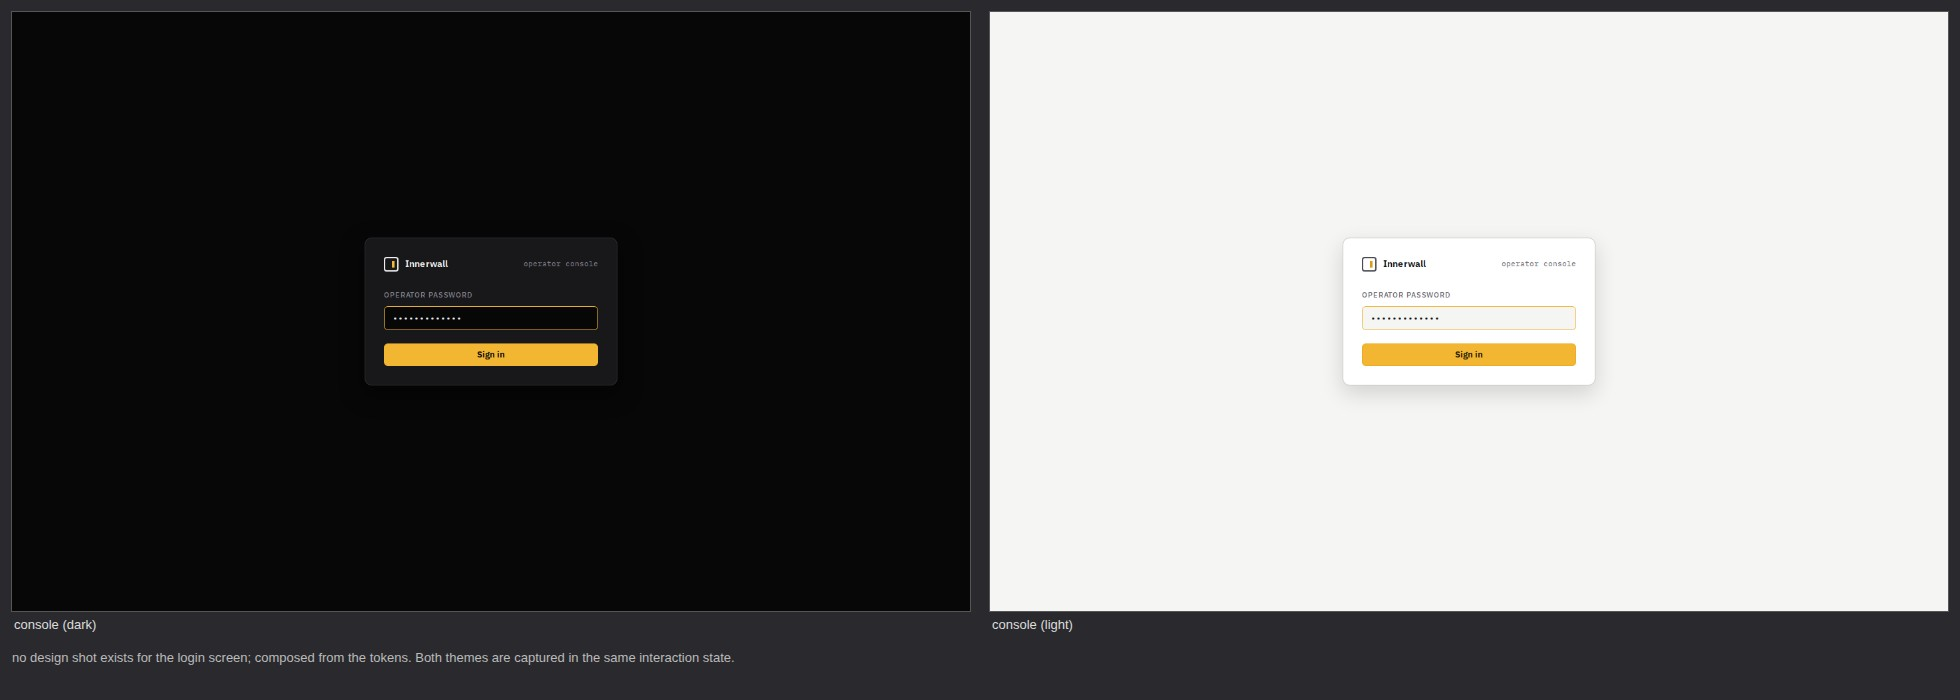
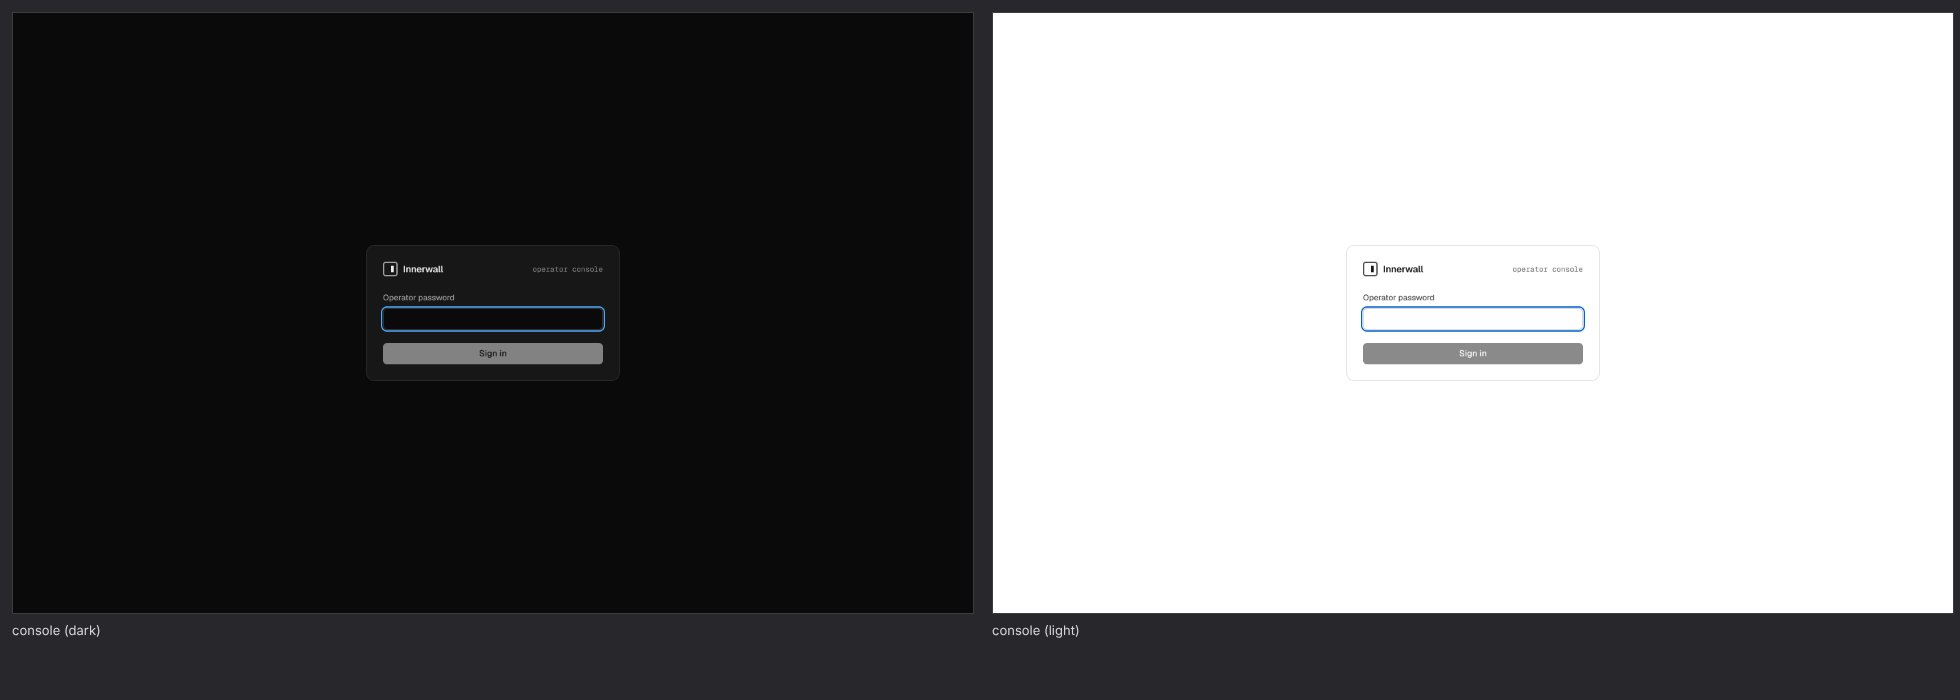
docs: recapture the console composites; record design package v2
Every committed composite is recaptured from the dev seed with
ui/scripts/capture-composites.mjs: the same 36 states, each now the
console's dark theme beside the same state in its light theme. The
beside-design-shots convention is retired with v1: the running
console is its own reference and the canvas stays outside the
repository. Designed states are one image each (<name>.jpg) instead of
-dark and -light pairs, and README's image paths and captions follow.

The script now captures every scene dark beside light, and carries
scenes for the ten committed states it never captured: the tokens
tab, the mint form, the revoke confirmation, the change-mode dialog,
the fresh-install workloads, the account popover, and the login
screen as it opens, refused, throttled (on a control plane the run
may throttle, since the brake is held in process), and on a control
plane with no operator password. docs/development.md describes the
four control planes it drives.

docs/design/PACKAGE.md records the package: its provenance and
verification record verbatim, amendment 1 (the severity glyph family,
maintainer-ruled), the errata, and where each piece lives here.

Claude-Session: https://claude.ai/code/session_01FCBVzWB4dnAVkGzWKWS9Fi

diff --git a/docs/design/PACKAGE.md b/docs/design/PACKAGE.md
@@ -1,0 +1,71 @@
+# Innerwall console design package v2
+
+Provenance and verification record. Freeze pending maintainer confirmation.
+
+## Sources (artifacts of record)
+- Design system "Innerwall Console": https://claude.ai/artifact/5ecVdc3pkWNCC8NSA5tNGh (version 1791434754-84ee at packaging)
+- Canvas "Innerwall Console Refresh" (16 artboards): https://claude.ai/artifact/1pzAJDRPmsZNzwP6cV93py (version 1791434823-11b9 at packaging)
+- Brand mark geometry: verbatim from innerwall-dev/innerwall ui/public/favicon.svg (22×22), recolored to logo-outline / logo-fill.
+
+## Contents
+- tokens.json — token source of truth (verbatim from the design system).
+- tokens.css — generated from tokens.json by the review track; both themes, @font-face included (adjust font paths to where ui/ serves them). Every token name machine-checked present.
+- README.md — the brand book (principles, themes, status sub-palette + glyph pairings, type, patterns, iconography).
+- components/ — Icon, Sidebar, StatusGlyph, StatusBadge, LabelChip specs.
+- fonts/ — Geist + Geist Mono 1.7.2 variable woff2 (SIL OFL 1.1, OFL.txt). sha256:
+  - Geist-Variable.woff2 a369fcf5628ea2aa4e1b9e2ec6a5b3624e365bda588e1f0f2f12b564f728fbb8
+  - GeistMono-Variable.woff2 fba8f577f38a2bbcbe818efa6348dd58f36303a10b8737c42fefad275be563ab
+- licenses/LUCIDE-LICENSE.txt — Lucide 1.47.0, ISC (chrome icons; the eight status glyphs are a custom set, exempt).
+- reference/innerwall.css — the canvas's working stylesheet (tokens mirror + component CSS: sidebar, tables, chips, buttons). Reference, not source of truth; tokens.json governs.
+- reference/Sidebar.reference.html — the canvas's shared Sidebar component markup (Lucide paths, brand mark, popover, collapsed behavior).
+
+## Verified at packaging (independent re-computation)
+- All status foregrounds >= 4.5:1 on bg-app, bg-subtle, bg-raised, bg-hover, bg-active, selection-bg and their own tints, both themes. Worst pair: light status-critical-fg on bg-active, 4.54:1.
+- text-secondary on sidebar-bg: 7.31:1 dark, 8.10:1 light.
+- Zero third-party runtime references in system or canvas (fonts self-hosted, Lucide paths bundled).
+- Brand mark drawn only at native 22px (logo-size), tokens are aliases: logo-outline → text-secondary, logo-fill → text-primary.
+
+## Known non-screens
+- Policy nav entry has no designed screen (links nowhere by design).
+- Promote dialogs live on a states board, per package convention.
+
+## Amendment 1 (2026-10-08, maintainer-ruled): the severity glyph family
+
+The console marks warnings and errors that are neither a flow decision nor workload health: evidence gaps, dropped records, stale renders, "no labels — matches no scope", the shown-once secret warning, promote-dialog caveats, credential renewal failed and expired, and every refusal, problem, and validation error. The eight status glyphs have no shape for these, and reusing one would collide meanings. So the package grows a third glyph family, **severity**, with two custom glyphs beside the eight:
+
+| Glyph | Tone token | Shape |
+| --- | --- | --- |
+| `severity-alert` | `status-warn-fg` | outlined diamond with an interior `!` (vertical bar + dot) |
+| `severity-error` | `status-critical-fg` | outlined octagon with an interior `×` |
+
+Both are drawn on the 16×16 grid at a 1.5px stroke, at the `glyph-sm` / `glyph-md` / `glyph-lg` sizes, like the eight.
+
+- **Family rule.** It is recorded alongside the flow/health rule:
+  - flow decisions are outlined rings and a triangle;
+  - workload health is solid or square-boxed;
+  - severity is outlined pointed polygons.
+
+  No shape repeats across the three families: the diamond is not would-block's triangle, and the octagon is not offline's square.
+- **Status sentence.** "Status is color + glyph, always" now reads "status and severity are color + glyph, always".
+- **Lucide rule.** Unchanged: a Lucide icon never carries a status color.
+- **Mapping.** Severity glyphs take the tone column of the console's token map:
+  - `alert`: evidence gaps, dropped records, stale renders, no-labels, the shown-once warning, promote-dialog caveats, credential renewal failed;
+  - `error`: credential expired, and every refusal, problem, and validation error.
+- **Design-system artifact.** The design-system artifact of record (StatusGlyph doc, README status section, legend board) is updated to match separately.
+
+## Errata
+
+- "Known non-screens" says the Policy nav entry "links nowhere by design". That sentence describes the canvas, not the repository. The repository's Policy entry links to `/policy`, the shipped policy editor.
+- The README cites the Lucide license at `components/lib/LUCIDE-LICENSE.txt`. It ships at `licenses/LUCIDE-LICENSE.txt`.
+
+## In this repository
+
+| Package piece | Where it lives |
+| --- | --- |
+| `tokens.css` | `ui/src/tokens.css`, names and values verbatim; its font URLs resolve to `ui/src/fonts/` |
+| Utility names | `ui/src/index.css` maps the tokens onto utility names |
+| Fonts | `ui/src/fonts/` (`Geist-Variable.woff2`, `GeistMono-Variable.woff2`, `OFL.txt`), self-hosted and bundled; the build writes the OFL beside them in `dist/assets/` |
+| Chrome icons | `lucide-react` pinned at 1.47.0, behind `ui/src/components/Icon.tsx` |
+| Status and severity glyphs | `ui/src/components/StatusGlyph.tsx` |
+
+`Icon.tsx` registers exactly the Icon spec's names plus `info` and `search`, added on the record. The status and severity glyphs are the custom set, never Lucide.

diff --git a/docs/development.md b/docs/development.md
@@ -77,9 +77,16 @@ The policy editor reads only the public surface and edits live: there is no draf
 
 The flow map renders with `@xyflow/react` (ADR-0008) and lays out with `@dagrejs/dagre`; both load with the map's own chunk, so no other screen carries them. The map reads only the public surface: the source-by-destination rollup once per decision, every workload in the map's scope (a page at a time), and the address groups; a pair's windows come from `GET /flows` when the operator opens it. Nothing the graph library draws carries a color of its own: `src/index.css` points its custom properties at the tokens.
 
-The review composites in `docs/img/console/` are regenerated by `ui/scripts/capture-composites.mjs`, which drives two running control planes (one seeded with the review estate, one on an empty database for the fresh-install states) through their consoles and puts each screen beside its design shot, or beside its other theme when the design has none. It needs Playwright and a Chromium it can launch, and the design package's shots directory; the header of the script has the invocation.
+The review composites in `docs/img/console/` are regenerated by `ui/scripts/capture-composites.mjs`. It drives running control planes through their consoles and puts each screen state in the dark theme beside the same state in the light, captured in the same interaction. Four control planes are used:
 
-For iterating on the console itself, `npm --prefix ui run dev` serves it with hot reload and proxies `/api` to the control plane (`INNERWALL_OPERATOR_URL`, default `https://127.0.0.1:8080`), so the cookie and the origin guard behave as in production. `npm --prefix ui run test` runs Vitest; `npm --prefix ui run lint` runs Biome. Screen review is against both themes: `docs/img/console/` holds the scaffold's states beside the design shots.
+- one seeded with the review estate;
+- one on an empty database, for the fresh-install states;
+- one whose login the run throttles, for the login screen's failure states;
+- one whose database has no operator password.
+
+The running console is its own reference: the design package's canvas stays outside the repository, and its provenance and amendments are recorded in [`docs/design/PACKAGE.md`](design/PACKAGE.md). The script needs Playwright and a Chromium it can launch; its header has the invocation.
+
+For iterating on the console itself, `npm --prefix ui run dev` serves it with hot reload and proxies `/api` to the control plane (`INNERWALL_OPERATOR_URL`, default `https://127.0.0.1:8080`), so the cookie and the origin guard behave as in production. `npm --prefix ui run test` runs Vitest; `npm --prefix ui run lint` runs Biome. Screen review is against both themes: `docs/img/console/` holds every designed state, dark beside light.
 
 ## CI
 

diff --git a/README.md b/README.md
@@ -8,15 +8,15 @@ A small agent on each workload observes the connections that reach it and progra
 
 ## The console
 
-Each image puts a screen of the shipped console (left) beside the design it was built to, or beside the same screen in the other theme. More, in both themes, are in [`docs/img/console/`](docs/img/console/).
+Each image puts a screen of the shipped console in its dark theme (left) beside the same state in its light theme. More are in [`docs/img/console/`](docs/img/console/).
 
 **Simulation review.** A ruleset's would-block traffic from the workloads simulating it, with the verdict on whether it is safe to enforce, the evidence it rests on, and the promotion to enforcement.
 
-![Simulation review: the console beside its design](docs/img/console/01-simulation-review-grouped-dark.jpg)
+![Simulation review, dark and light](docs/img/console/01-simulation-review-grouped.jpg)
 
 **Flow map.** The estate's real traffic between label groups, colored by what the policy decided or would decide.
 
-![Flow map: the console beside its design](docs/img/console/07-flow-map-graph-dark.jpg)
+![Flow map, dark and light](docs/img/console/07-flow-map-graph.jpg)
 
 **Policy editor.** Rules edited live, with every admission finding in place and a dry run that shows each workload's rendered change before anything is written.
 
@@ -24,7 +24,7 @@ Each image puts a screen of the shipped console (left) beside the design it was 
 
 **Fleet.** Every workload's mode, sync state against its latest rendered version, and agent health.
 
-![Fleet workloads: the console beside its design](docs/img/console/13-fleet-workloads-light.jpg)
+![Fleet workloads, dark and light](docs/img/console/13-fleet-workloads.jpg)
 
 ## Why
 
